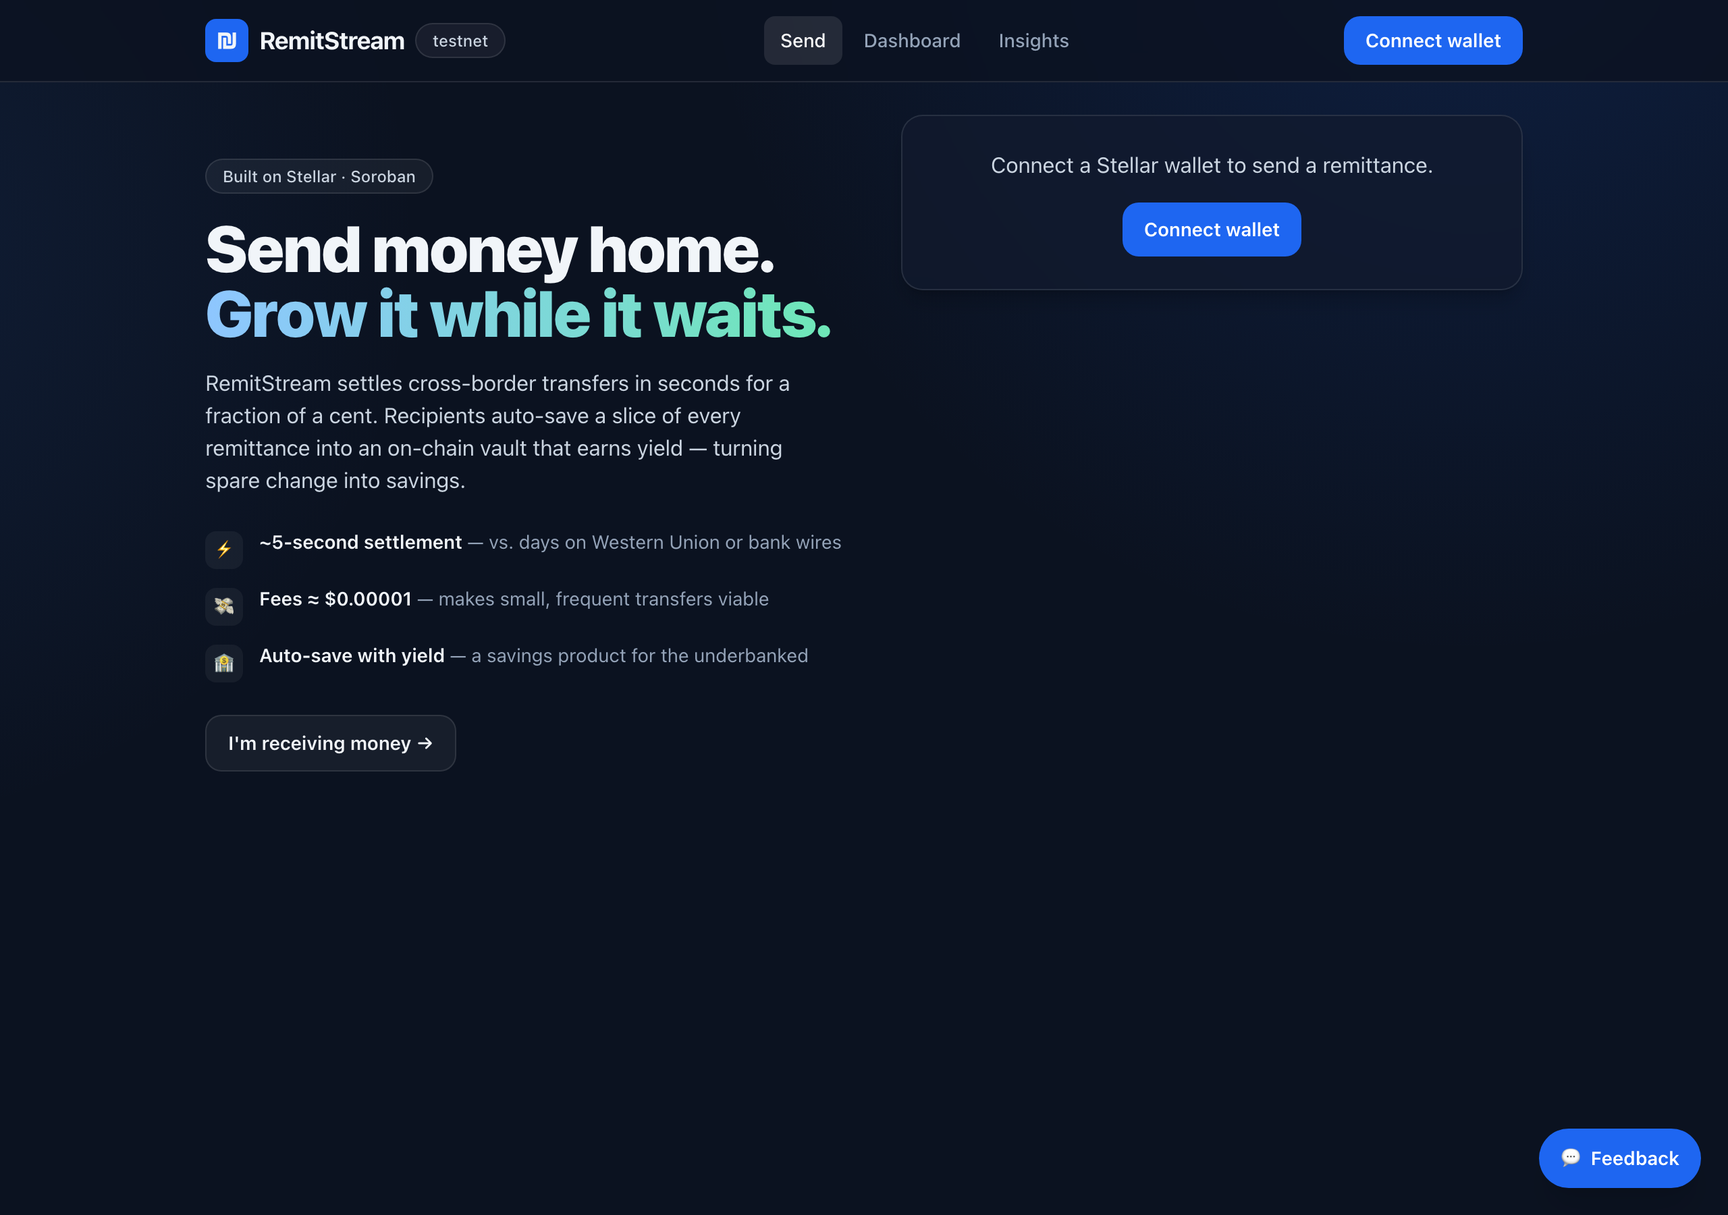
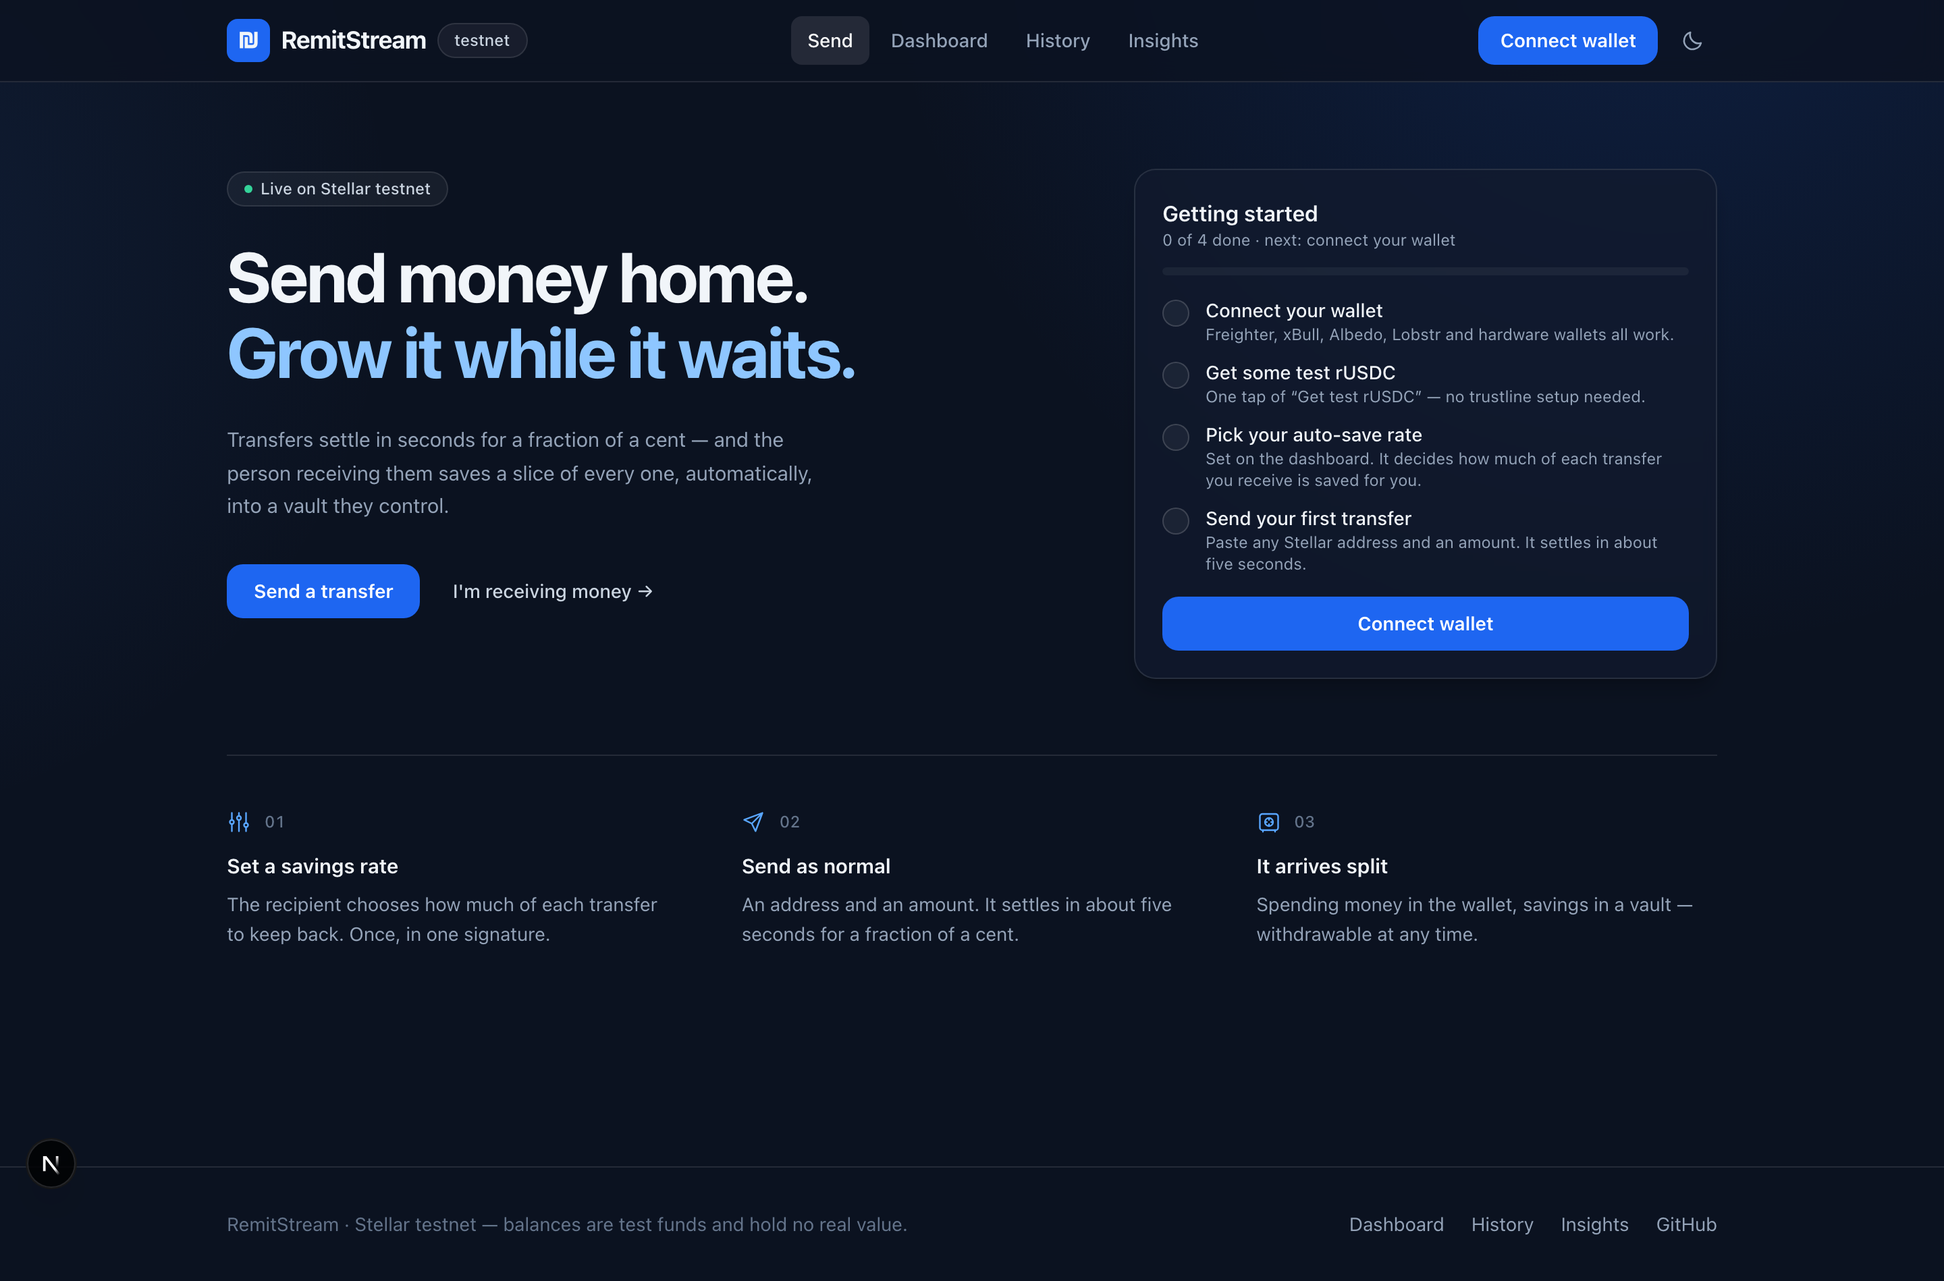
docs: rewrite the README around what feedback changed, and refresh the demo script
The README described the MVP; it now has to answer a different question,
which is what the pilot round actually changed and how to verify it.

Adds a feedback-to-commit table so each reported problem can be traced
to the change that closed it, and a companion table for the requests
that were deliberately not built — 2FA and Google sign-in mean nothing
in a non-custodial app, and saying so is more useful than silence.

States the user-proof position plainly: 22 wallets rather than 50, of
which 10 are author-operated and are not counted as testers. Inflating
that number would devalue every other figure in the repo.

Also documents the two-source history model and why it exists, since
that is the least obvious thing in the codebase and the first thing a
future change is likely to break.

The demo script picks up the new beats: the first-run guide, the
explorer link on the send receipt, the history page, and the fact that
Insights is now counted off the chain.

Screenshots regenerated for the pages that don't require a connected
wallet.

diff --git a/README.md b/README.md
@@ -7,7 +7,8 @@
 Send money home in seconds for a fraction of a cent — and let the recipient
 automatically save a slice of every transfer into an on-chain vault that earns yield.
 
-[Live demo](#live-demo) · [Architecture](#architecture) · [Contracts](#deployed-contracts) · [Run locally](#run-it-locally)
+[Live demo](#live-demo) · [What changed from user feedback](#what-pilot-users-asked-for)
+· [Proof of usage](#proof-of-usage) · [Architecture](#architecture) · [Run locally](#run-it-locally)
 
 </div>
 
@@ -56,13 +57,15 @@ intercepts the payment in-flight.
 | **App** | https://remit-stream.vercel.app/ |
 | **Network** | Stellar Testnet |
 | **Demo video** | https://www.loom.com/share/3096850b52a14db092b3ef6c6c4e627c |
+| **Pitch deck** | [`docs/RemitStream-Pitch.pptx`](docs/RemitStream-Pitch.pptx) |
+| **Feedback form** | [Google Form responses](https://docs.google.com/spreadsheets/d/1qWlgaFwnT-XQyprBxDzJ1d5r18-J3qXOimasJRg_o3U/edit?resourcekey=&gid=146620607#gid=146620607) |
 
 > Need test funds? Connect a wallet and hit **Get test rUSDC** — the token
 > contract has a built-in faucet, so no trustline setup is required.
 
 ### Screenshots
 
-| Send flow | Recipient dashboard |
+| Landing & send flow | Recipient dashboard |
 |---|---|
 | ![Send](docs/screenshots/home-desktop.png) | ![Dashboard](docs/screenshots/dashboard.png) |
 
@@ -70,8 +73,67 @@ intercepts the payment in-flight.
 |---|---|
 | ![Insights](docs/screenshots/insights.png) | ![Mobile](docs/screenshots/home-mobile.png) |
 
-_The Insights screenshot is populated with sample events to show the dashboard
-layout; live figures come from real usage._
+---
+
+## What pilot users asked for
+
+Ten testers filled in the feedback form. Everything below was raised by a real
+user and is closed in this release — each row links to the commit that did it.
+
+| What they said | What shipped | Commit |
+|---|---|---|
+| *"A dedicated transaction history section where users can view and track their past transactions."* | A `/history` page built from two chain sources: Horizon for everything the wallet signed, and the router's own settlement events for incoming transfers that Horizon can never show. | [`05f70f5`](../../commit/05f70f5) |
+| *"When I sent money out I'm supposed to be seeing the transaction link of the withdrawal."* <br> *"I do not see a transaction block explorer link… I had to fetch it from Freighter. Maybe you can place it in the confirmation message of money delivered."* | Every action returns its transaction hash. The send confirmation leads with an explorer link, and success toasts for sends, withdrawals, rule changes and faucet claims all carry one. | [`8943fea`](../../commit/8943fea) |
+| *"The Insights page should also display real-time data, as the current data appears to be hardcoded."* | It was reading an append-only file that, on a serverless host, resets on every redeploy. Money figures now come from the router's settlement events and the vault contract itself. | [`4126f33`](../../commit/4126f33) |
+| *"When the session expires, the UI still shows that the account is connected… automatically disconnect when the session expires or after inactivity."* | Sessions are revalidated against the wallet on restore, on refocus and after a signing failure, and dropped after 30 idle minutes. | [`fca7ef4`](../../commit/fca7ef4) |
+| *"There should be an onboarding feature to guide and introduce new users."* <br> *"Help users who are new or less familiar with Web3 understand how the application works."* | A three-card welcome guide in plain language, plus a getting-started checklist that reads its progress from chain state rather than local flags. | [`cc9d415`](../../commit/cc9d415) |
+| *"Deployment details, such as the contract address, should not be exposed directly within the application UI."* | Removed from the Insights page. They live here and in `deployments.json`. | [`4126f33`](../../commit/4126f33) |
+| *"The UI could also be improved, as it currently feels too basic."* | Landing page rebuilt around one clear path, emoji illustrations replaced with a proper icon set, and two layout bugs fixed — a header control that hung out of line, and two identical connect buttons stacked on top of each other. | [`99f6af8`](../../commit/99f6af8) |
+
+### Raised, and deliberately not built
+
+Being straight about the rest of the feedback:
+
+| Request | Why not, and what happens instead |
+|---|---|
+| **Two-factor authentication** | RemitStream is non-custodial — there is no account and no password to protect. Authentication *is* the wallet signature, and 2FA belongs to the wallet. Adding an app-level second factor would imply a security guarantee the architecture does not provide. |
+| **Google sign-in** | Same reason. A Google account cannot authorise a Stellar transaction; adding it would create the impression of a custodial account that does not exist. |
+| **AI chat support** | Real, but not the bottleneck the same testers described. The onboarding guide and checklist address the underlying "I don't know what to do next" problem directly. |
+| **Support for XLM and other tokens** | Genuinely wanted and on the roadmap. It needs the router and vault to be asset-generic, which is a contract change and a redeploy, not a UI change. |
+| **Fully implemented yield** | The vault's accounting is real — yield is distributed by raising accounted assets without minting shares, so holders gain pro rata. What is missing is a *source* of yield, which means integrating a lending market such as Blend. Until then the share price honestly sits at 1.0000 rather than displaying an invented APY. |
+
+---
+
+## Proof of usage
+
+[`docs/USER_PROOF.md`](docs/USER_PROOF.md) is generated end to end by
+[`scripts/proof.mjs`](scripts/proof.mjs), which reads the testnet ledger. Nothing
+in it is typed by hand.
+
+| Metric | Value |
+|---|---|
+| Wallets with on-chain activity | **22** |
+| Signed contract operations | **116** |
+| Remittances settled | **47** |
+| Volume routed | **3,522.00 rUSDC** |
+| Auto-saved into the vault | **371.20 rUSDC** |
+
+Each wallet is measured two ways, because neither view is complete on its own:
+Horizon shows what an account *signed*, while the router and vault contracts show
+what it *received* — an incoming transfer never appears in the recipient's own
+Horizon history, because rUSDC balances live in contract storage rather than in
+classic trustlines.
+
+**On the 50-user requirement — stated plainly:** this is 22 wallets, not 50, and
+of those, 12 are pilot testers while 10 were operated by the author while testing
+the flow end to end. `USER_PROOF.md` keeps the two groups in separate tables and
+does not count builder wallets as users. Reaching 50 genuine testers is an
+onboarding problem, not a reporting one, and inflating the number here would make
+every other figure in this repository worth less.
+
+```bash
+node scripts/proof.mjs     # regenerate from current ledger state
+```
 
 ---
 
@@ -95,7 +157,7 @@ layout; live figures come from real usage._
 
 | Contract | Responsibility |
 |---|---|
-| **`auto-split-router`** | Splits each incoming remittance per the recipient's rule, forwards the spendable part, pushes the rest into the vault, tracks lifetime stats. |
+| **`auto-split-router`** | Splits each incoming remittance per the recipient's rule, forwards the spendable part, pushes the rest into the vault, tracks lifetime stats. Emits a `Routed` event the app reads back for history and analytics. |
 | **`savings-vault`** | Share-based vault. Yield is distributed by raising accounted assets without minting shares, so every holder gains pro rata and later deposits aren't diluted. |
 | **`remit-token`** | SEP-41 test stablecoin (rUSDC) with a rate-limited faucet. Balances live in contract storage, so pilot users receive funds with **no trustline setup**. |
 
@@ -117,26 +179,44 @@ layout; live figures come from real usage._
 - Typed contract clients generated from the deployed contracts, vendored into
   `web/src/bindings` so there's no separate package build step.
 - Multi-wallet support via Stellar Wallets Kit (Freighter, xBull, Albedo,
-  Lobstr, hardware wallets).
+  Lobstr, hardware wallets), with sessions revalidated against the wallet rather
+  than trusted from local storage.
 - Live split preview: before confirming, the sender sees exactly what the
   recipient will receive and save — quoted from the chain, not guessed.
 - Skeleton loading states, toast notifications, an error boundary that reports
   to the monitoring endpoint, and human-readable contract errors
   (`humanizeError` maps panics to sentences users can act on).
 
+### Reading history off the chain
+
+There is no application database. History is reconciled from two sources, which
+is worth understanding before changing that code:
+
+| Source | Covers | Retention |
+|---|---|---|
+| Horizon operations | Everything a wallet **signed** — sends, withdrawals, rule changes, faucet claims | Full |
+| Router `Routed` events | **Incoming** remittances, plus the payout/saved split | ~7 days (RPC event window) |
+
+The Soroban RPC only pages forward and walks roughly 10k ledgers per call, so
+covering the retention window takes about a dozen sequential round trips. That
+scan runs server-side in `/api/routed` as parallel ledger chunks behind a 30s
+cache, shared across visitors instead of repeated per page load. The history page
+renders as soon as the signed half arrives and folds incoming transfers in when
+the scan lands.
+
 ### Analytics, monitoring & feedback
 
-All first-party, no third-party account required:
+| Endpoint | Purpose | Source |
+|---|---|---|
+| `GET /api/routed` | Every settled remittance in the RPC's event window | Chain |
+| `GET /api/insights` | Volume, participants, vault state, error and feedback counts | Chain + first-party |
+| `POST /api/track` | Product events (sends, rule changes, faucet claims) | First-party |
+| `POST /api/monitor` | Client error reports from the error boundary | First-party |
+| `POST /api/feedback` · `GET` | In-app feedback widget + public summary | First-party |
 
-| Endpoint | Purpose |
-|---|---|
-| `POST /api/track` | Product events (sends, rule changes, faucet claims) |
-| `POST /api/monitor` | Client error reports from the error boundary |
-| `POST /api/feedback` · `GET` | In-app feedback widget + public summary |
-| `GET /api/insights` | Aggregates all of the above for the dashboard |
-
-Pageview and web-vitals monitoring comes from `@vercel/analytics`. The
-`/insights` page renders volume, adoption, error rates, and feedback in one view.
+Money figures are read from the ledger. Error reports and in-app ratings are
+first-party and reset when the app is redeployed — the Insights page says so
+rather than presenting them as lifetime totals.
 
 ---
 
@@ -149,9 +229,6 @@ Stellar **Testnet** — see [`deployments.json`](deployments.json).
 | AutoSplitRouter | [`CAUHITYG2QOBX25HBP5NSGV4YJGJWIKFU5RAKIB5YC7IU6ZPBPUHFY4L`](https://stellar.expert/explorer/testnet/contract/CAUHITYG2QOBX25HBP5NSGV4YJGJWIKFU5RAKIB5YC7IU6ZPBPUHFY4L) |
 | SavingsVault | [`CCF36HNGIGLQYCZYACJDLKKV42X4U7UXRAEDCOU3MTYYP7HLKOREMO3Y`](https://stellar.expert/explorer/testnet/contract/CCF36HNGIGLQYCZYACJDLKKV42X4U7UXRAEDCOU3MTYYP7HLKOREMO3Y) |
 | rUSDC token | [`CD3TKICZQDPXPOYDFZW4JFHX5AT7VFK2VJZQE22Q4CYZQKYDVLW2ZFP2`](https://stellar.expert/explorer/testnet/contract/CD3TKICZQDPXPOYDFZW4JFHX5AT7VFK2VJZQE22Q4CYZQKYDVLW2ZFP2) |
-
-**Proof of wallet interactions:** [`docs/USER_PROOF.md`](docs/USER_PROOF.md) —
-generated directly from ledger state, every row independently verifiable.
 
 ---
 
@@ -192,11 +269,18 @@ npm run dev          # http://localhost:3000
 To point the app at your own deployment, set `NEXT_PUBLIC_ROUTER_ID`,
 `NEXT_PUBLIC_VAULT_ID`, and `NEXT_PUBLIC_TOKEN_ID` (see `web/src/lib/config.ts`).
 
-### Onboard a pilot cohort
+### Regenerate the docs
 
 ```bash
-node scripts/proof.mjs            # regenerate docs/USER_PROOF.md
+node scripts/proof.mjs                     # docs/USER_PROOF.md, from the ledger
+
+python3 -m venv .venv                      # docs/RemitStream-Pitch.pptx
+.venv/bin/pip install python-pptx
+.venv/bin/python scripts/build-deck.py
 ```
+
+The deck reads its traction figures out of `USER_PROOF.md`, so regenerate the
+proof first and the two can't disagree.
 
 ---
 
@@ -218,16 +302,28 @@ cd contracts && cargo test
 
 ## Roadmap
 
-- **Now (MVP):** one corridor, testnet, manual yield accrual, faucet-funded rUSDC.
-- **Next:** SEP-24 anchor integration for real fiat on/off-ramp; path payments so
-  the sender pays in their currency and the recipient receives in theirs, atomically.
-- **Then:** live yield via an existing Stellar DeFi protocol (e.g. Blend),
-  recurring remittances, savings goals ("school fees"), and a small credit line
-  against vault balance.
+Ordered by what unblocks real money moving through the product.
 
-## User Reviews
+1. **SEP-24 anchor integration** — real fiat on/off ramp, so a corridor carries
+   actual value instead of test tokens.
+2. **Live yield via Blend** — replace manual accrual with a real Stellar lending
+   market, so vault balances earn without intervention.
+3. **Path payments** — the sender pays in their currency and the recipient
+   receives in theirs, atomically.
+4. **Savings goals and recurring sends** — "school fees by September". Goals are
+   the retention mechanic the vault makes possible.
+5. **Multi-asset support** — requested by pilot users; accept XLM and other
+   Stellar assets, not just rUSDC.
+6. **Credit line against vault balance** — small advances secured by savings.
 
-[User reviews spreadsheet](https://docs.google.com/spreadsheets/d/1qWlgaFwnT-XQyprBxDzJ1d5r18-J3qXOimasJRg_o3U/edit?resourcekey=&gid=146620607#gid=146620607)
+### Next phase, driven by this round of feedback
+
+The remaining unaddressed requests set the agenda for the next release:
+asset-generic contracts so XLM and other tokens work, a real yield source behind
+the vault, and a push to onboard testers past the 22 wallets currently verifiable
+on-chain. The onboarding guide added here is the first half of that push — the
+second is recruiting through diaspora community groups rather than one wallet at
+a time.
 
 ## License
 

diff --git a/docs/DEMO.md b/docs/DEMO.md
@@ -1,6 +1,6 @@
 # Demo script
 
-A ~3 minute walkthrough covering the full product. Timings are a guide, not a
+A ~3.5 minute walkthrough covering the full product. Timings are a guide, not a
 script to read aloud verbatim.
 
 ## Before you record
@@ -29,8 +29,14 @@ Have the recipient's address copied to your clipboard before you start.
 >
 > RemitStream fixes both halves of that."
 
-Show the landing page. Point at the three claims: ~5-second settlement,
-$0.00001 fees, auto-save with yield.
+Show the landing page. Point at the three steps along the bottom.
+
+Then, in a fresh browser profile, show the welcome guide that greets a first-time
+visitor and the getting-started checklist beside the send panel.
+
+> "Testers said it wasn't obvious what to do first, especially for anyone new to
+> Web3. The checklist reads its progress off the chain, so it knows what you've
+> actually done."
 
 ## 0:20 — Recipient sets a savings rule (30s)
 
@@ -59,7 +65,14 @@ Point at the live split preview bar as it updates.
 
 > "One signature, one transaction, about five seconds."
 
-Show the success card with the 80/20 breakdown.
+Show the success card with the 80/20 breakdown, then point at the explorer link
+on it.
+
+> "And there's the transaction on Stellar. Every confirmation carries its own
+> receipt — pilot users had to go digging in their wallet extension for this, so
+> now the app hands it to you."
+
+Click it, show the transaction on stellar.expert, come back.
 
 ## 1:35 — What the recipient sees (35s)
 
@@ -71,7 +84,18 @@ Switch back to the **Recipient** wallet → **Dashboard**.
 > "The split happened inside the transfer. There was no second step, no separate
 > savings app, nothing for the recipient to remember to do."
 
-## 2:10 — Yield (25s)
+## 2:10 — Transaction history (25s)
+
+Go to **History**.
+
+> "Every transfer, withdrawal and rule change, read straight off the ledger —
+> there's no database behind this. Money you sent comes from your account's own
+> signed history; money you received comes from the router's settlement events,
+> because an incoming transfer never touches the recipient's account record."
+
+Point at a row's explorer link, and at the filter tabs.
+
+## 2:35 — Yield (25s)
 
 Run this in a terminal on camera (or pre-run it and refresh):
 
@@ -92,18 +116,22 @@ Then withdraw: enter an amount → **Withdraw**.
 
 > "And it's liquid — they can pull it out any time, yield included."
 
-## 2:35 — Production quality (25s)
+## 3:00 — Production quality (25s)
 
 Go to **Insights**.
 
-> "This is the pilot's live analytics: volume, how much is being auto-saved,
-> adoption, error monitoring, and in-app feedback — all first-party."
+> "This is the pilot's live analytics — and the money figures here are counted
+> from the router's own settlement events and read out of the vault contract, not
+> from an app database. A tester told us this page looked hardcoded, and they were
+> right: it used to read a file that reset on every deploy."
+
+Let the "updated Ns ago" stamp tick over on camera.
 
 Show the mobile view (device toolbar or a real phone).
 
 > "And it's fully responsive, because the people who need this are on phones."
 
-## 3:00 — Close (15s)
+## 3:25 — Close (15s)
 
 > "Contracts are deployed on Stellar testnet with 43 tests covering the
 > money-movement paths. Next up is SEP-24 anchors for real fiat on and off
@@ -120,15 +148,16 @@ If you'd rather cut it together than record live:
 
 | # | Shot | Duration |
 |---|---|---|
-| 1 | Landing page, scroll through value props | 0:20 |
+| 1 | Landing page + first-run welcome guide and checklist | 0:20 |
 | 2 | Dashboard: slider 0% → 20%, wallet approve | 0:30 |
 | 3 | Send: type amount, split preview updating live | 0:25 |
-| 4 | Wallet approval prompt + success card | 0:20 |
+| 4 | Wallet approval prompt + success card with explorer link | 0:20 |
 | 5 | Recipient dashboard: balances and stats updated | 0:35 |
-| 6 | Terminal: `accrue_yield` + refreshed balance | 0:25 |
-| 7 | Withdraw flow | 0:10 |
-| 8 | Insights dashboard | 0:15 |
-| 9 | Mobile view | 0:10 |
+| 6 | History page: filters and a transaction link | 0:25 |
+| 7 | Terminal: `accrue_yield` + refreshed balance | 0:25 |
+| 8 | Withdraw flow | 0:10 |
+| 9 | Insights dashboard, live figures | 0:15 |
+| 10 | Mobile view | 0:10 |
 
 ## Things worth saying out loud
 
@@ -140,5 +169,7 @@ Reviewers look for depth. These land well:
   real token balance, so a compromised router can't mint shares from nothing.
 - **"Rounding always favours solvency."** Withdrawal burn rounds up; the split
   never strands a residue in the router.
+- **"There is no database."** History and analytics are reconciled from Horizon
+  and contract events, so nothing the app shows can drift from the chain.
 - **"The preview and the execution share one code path."** `quote()` and
   `route()` compute the split identically, and a test asserts they agree.
